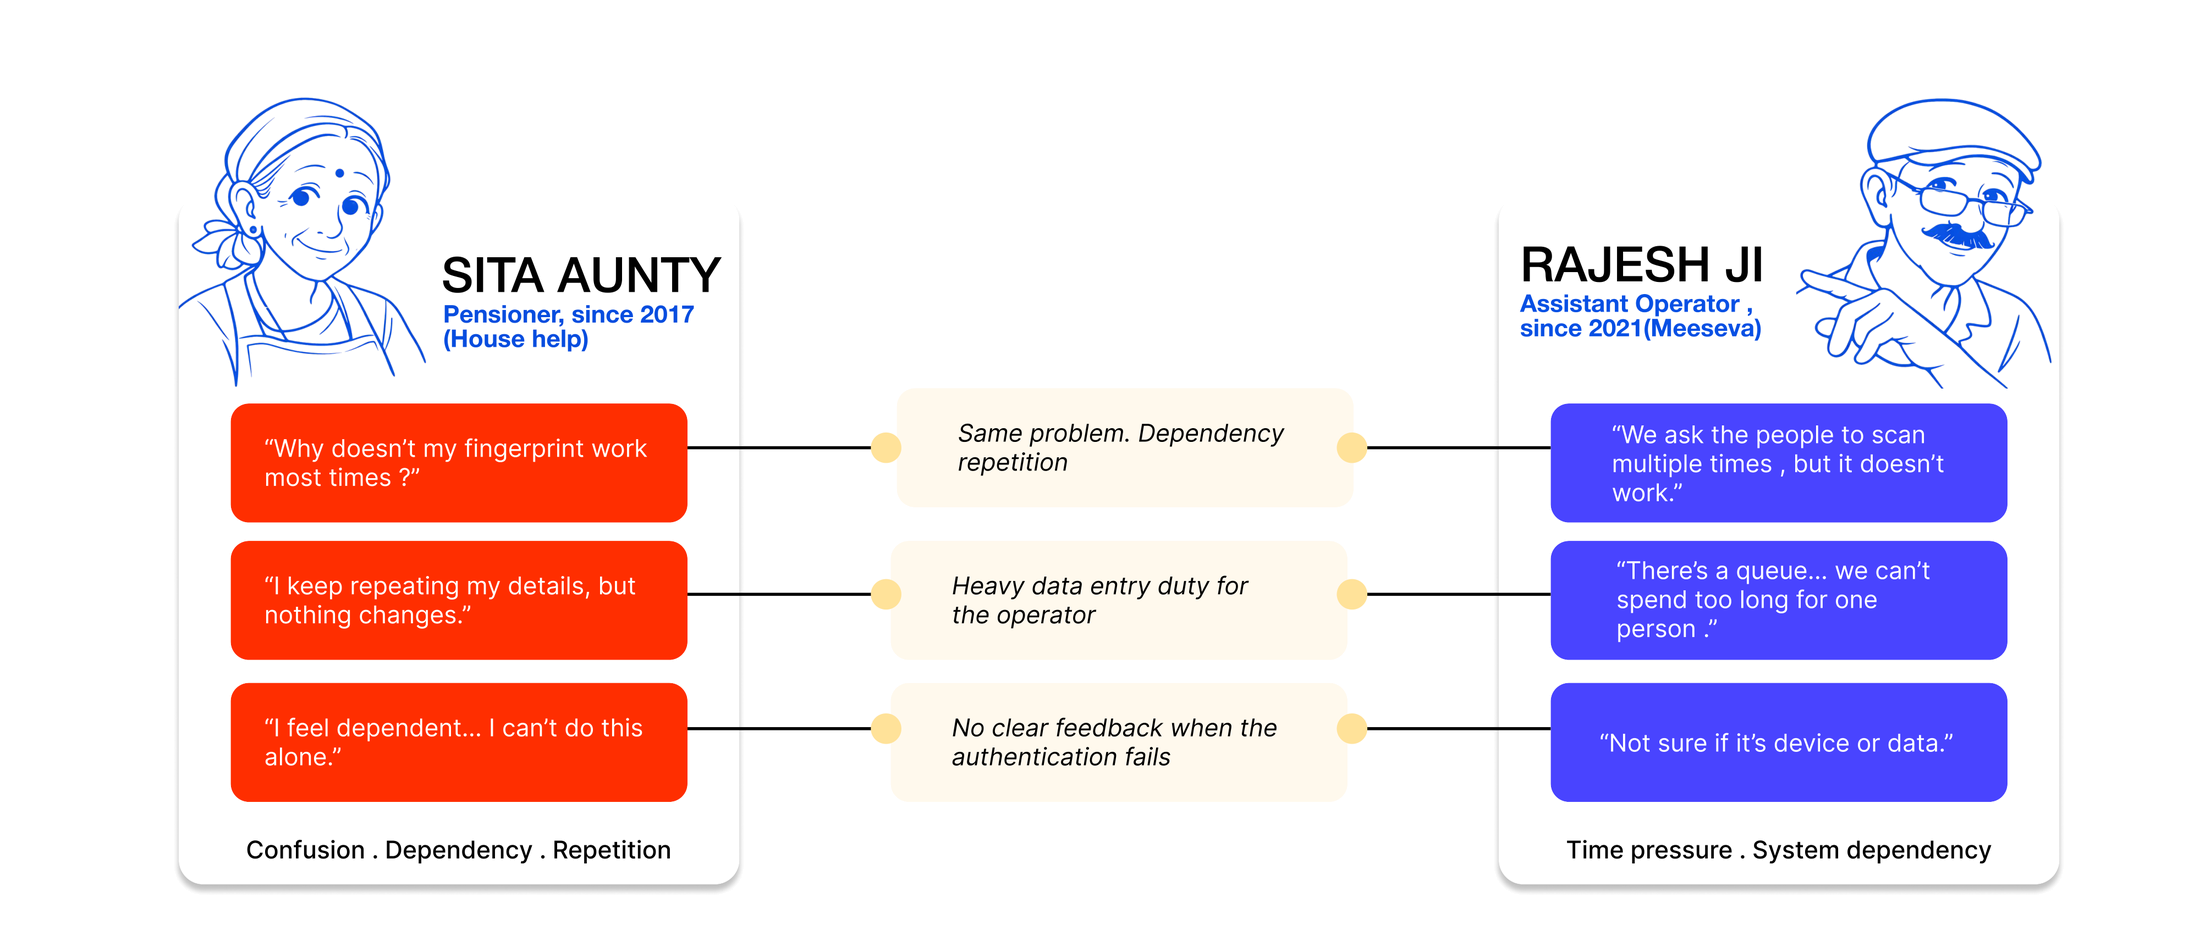
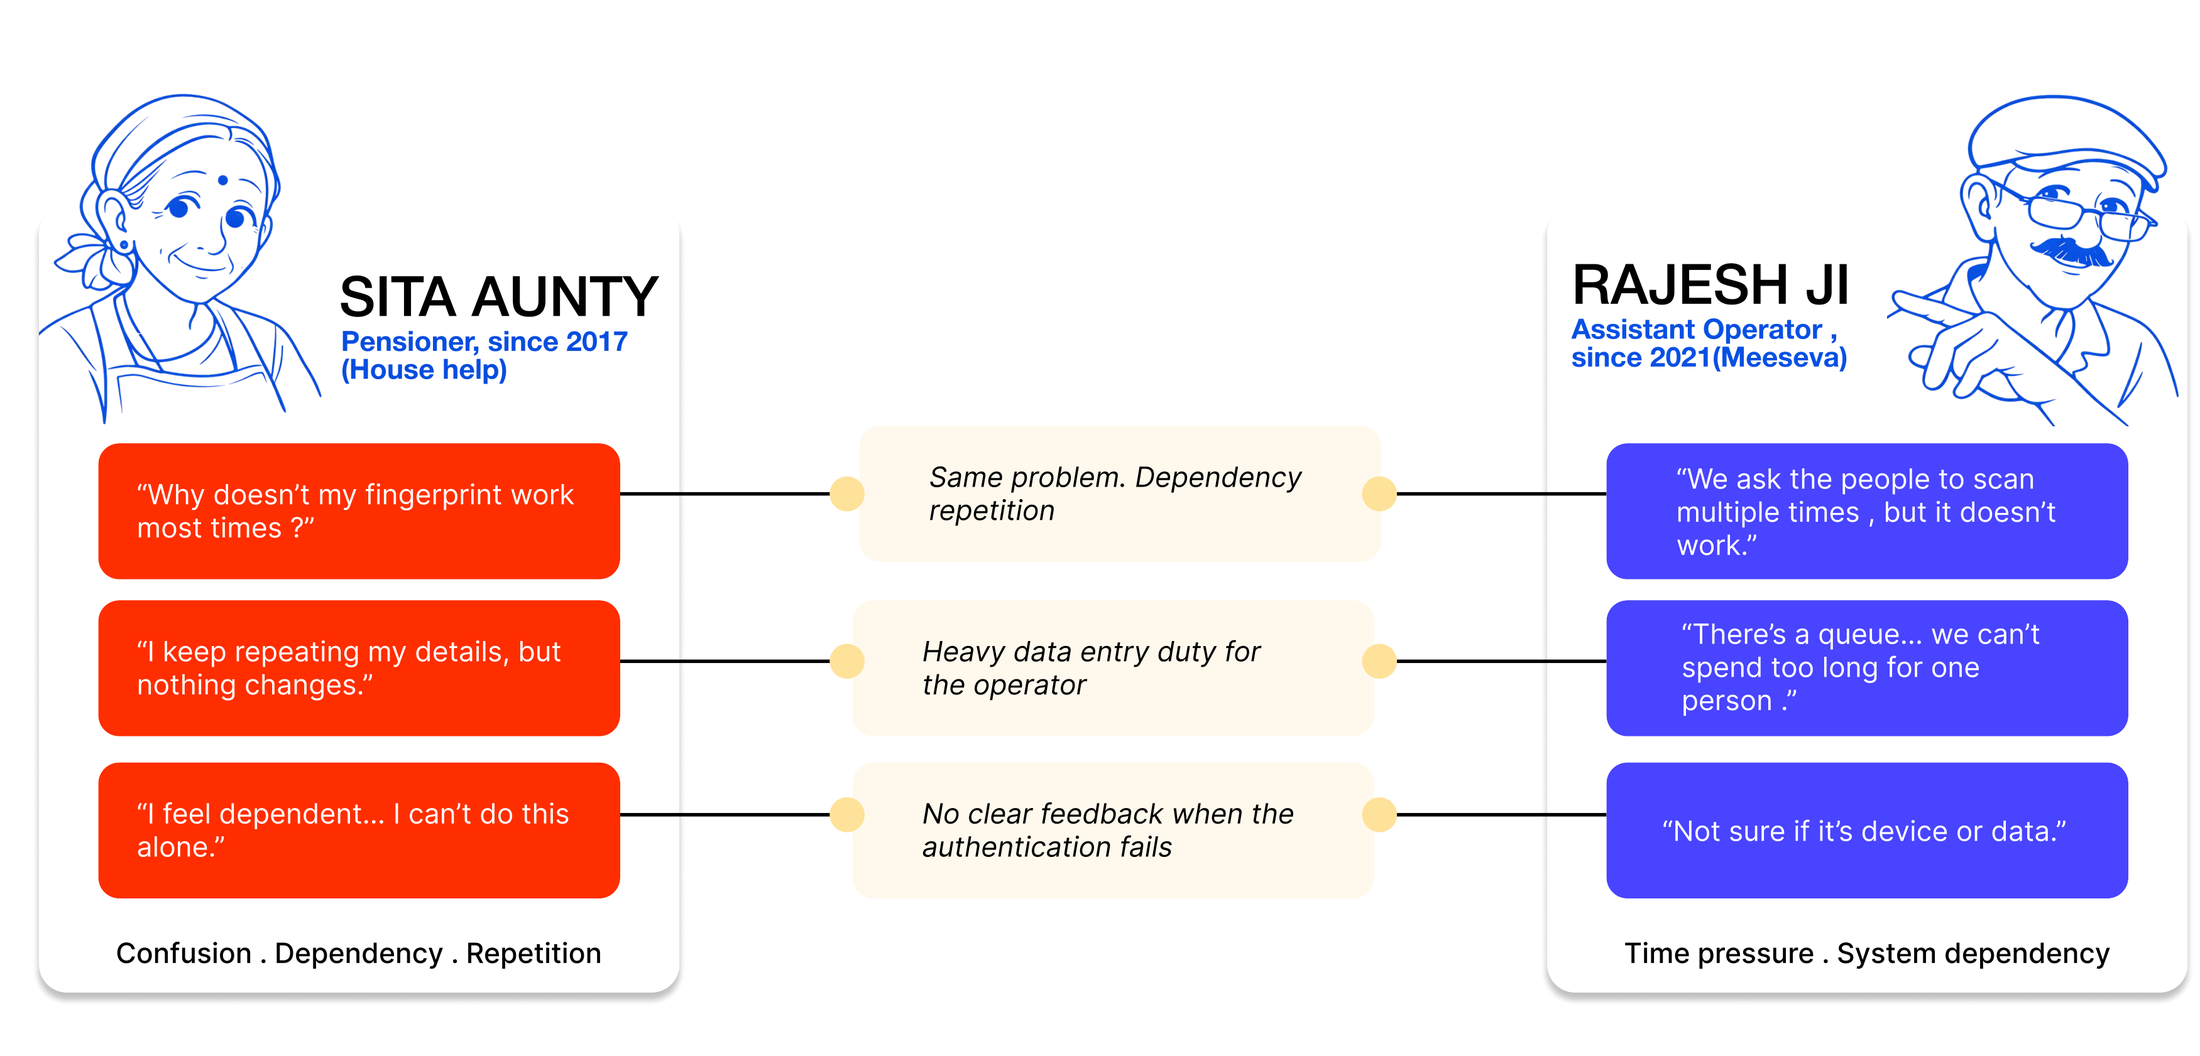
Bigger Sita/Rajesh comparison
Claude-Session: https://claude.ai/code/session_01QBZZib9KCCBedNvbZQFBnX

Changed region(s): [[0.0309, 0.0919, 0.9891, 0.8574], [0.68, 0.8881, 1.0, 0.9493], [0.0, 0.8881, 0.34, 0.9493]]

diff --git a/biometric.html b/biometric.html
@@ -679,7 +679,7 @@
       <div class="cs-body">
         <p>My first guess was the fingerprint scanner: improve the hardware, improve the sensitivity. But the experience involves two people, the pensioner and the operator who assists them. So I interviewed both.</p>
       </div>
-      <div class="cs-image"><img src="assets/bio/personas.png" alt="Sita Aunty and Rajesh Ji interview insights"></div>
+      <div class="cs-image" style="width:108%;margin-left:-4%"><img src="assets/bio/personas.png" alt="Sita Aunty and Rajesh Ji interview insights"></div>
       <p class="cs-image-caption">Sita Aunty, a pensioner since 2017, and Rajesh Ji, a Meeseva operator since 2021</p>
       <div class="cs-callout">The problem wasn't the product. It was the interaction between user, system, and guidance.</div>
     </section>
